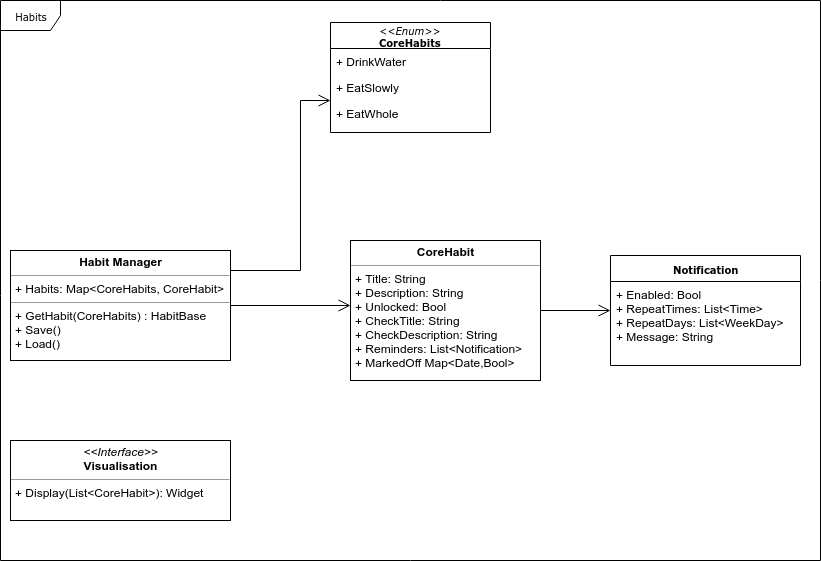
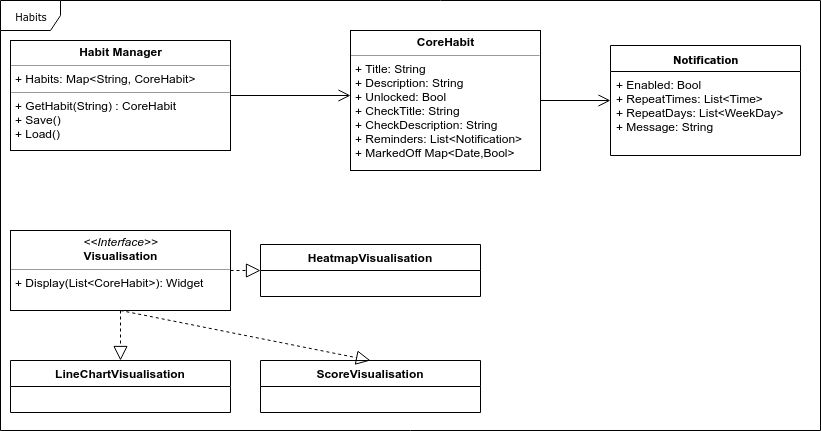
Updated Habits UML

diff --git a/Portfolio A/OO Design & UML.md b/Portfolio A/OO Design & UML.md
@@ -27,7 +27,7 @@ The habit manager holds information for all the habits that can be tracked and d
 The course content manager simply outputs any course content that the user wishes to view to the device, and must be able to communicate with the server so that any updates that Ben wishes to make the course can be updated by him, and then displayed as required within the application. 
 
 ## Static UML: Habits
-![](https://github.com/simon-wh/66-Days/blob/master/Portfolio%20A/Images/Habits%20UML.png?raw=true)
+![](https://github.com/simon-wh/66-Days/blob/master/Documentation/Development/UML%20Diagrams/Habits.png?raw=true)
 
 The habit tracking system is one of the key aspects of the 66-Days system, being one of the two core systems that the user will interact with, at least for the MVP. This system serves as a core centre-point that the other systems will interact with so it was crucial to ensure this was designed as a baseline to work off of for the other systems, or at least to have an idea of how aspects will interact with it. The habit system is used for the user to keep track of the various CoreHabits, what experiment is being tracked(See CheckTitle and CheckDescription under CoreHabit) and to store when the experiments were marked off. The `HabitManager` also serves to handle the notifications that have been chosen by the user for particular habits and ensure that these notifications are pushed to the user at the selected times. There is also the simple visualisation interface which will be used to have multiple implementations of data visualisers which display a representation of the historical data for the habits being checked off over time. The core benefit we experienced from modelling this system was that we were able to find a much simpler design than we had originally planned, we had a couple of iterations of the design which all contrast with each other. For example, at first we planned for the CoreHabit class to be split into an abstract habit class to act as a blueprint for habits called `HabitBase`, and then two subclasses that inherit this for instantiation, namely `CoreHabit` and `Habit`. Upon review of this we realised that this is actually more than we needed and it would overcomplicate our system, and hence we went back and combined elements of all three of these classes, into one class, now called `CoreHabit`  With the resulting design being much more refined and simple, focusing on the core requirements of the system and should be easier to implement with regards to the wider system.
 
